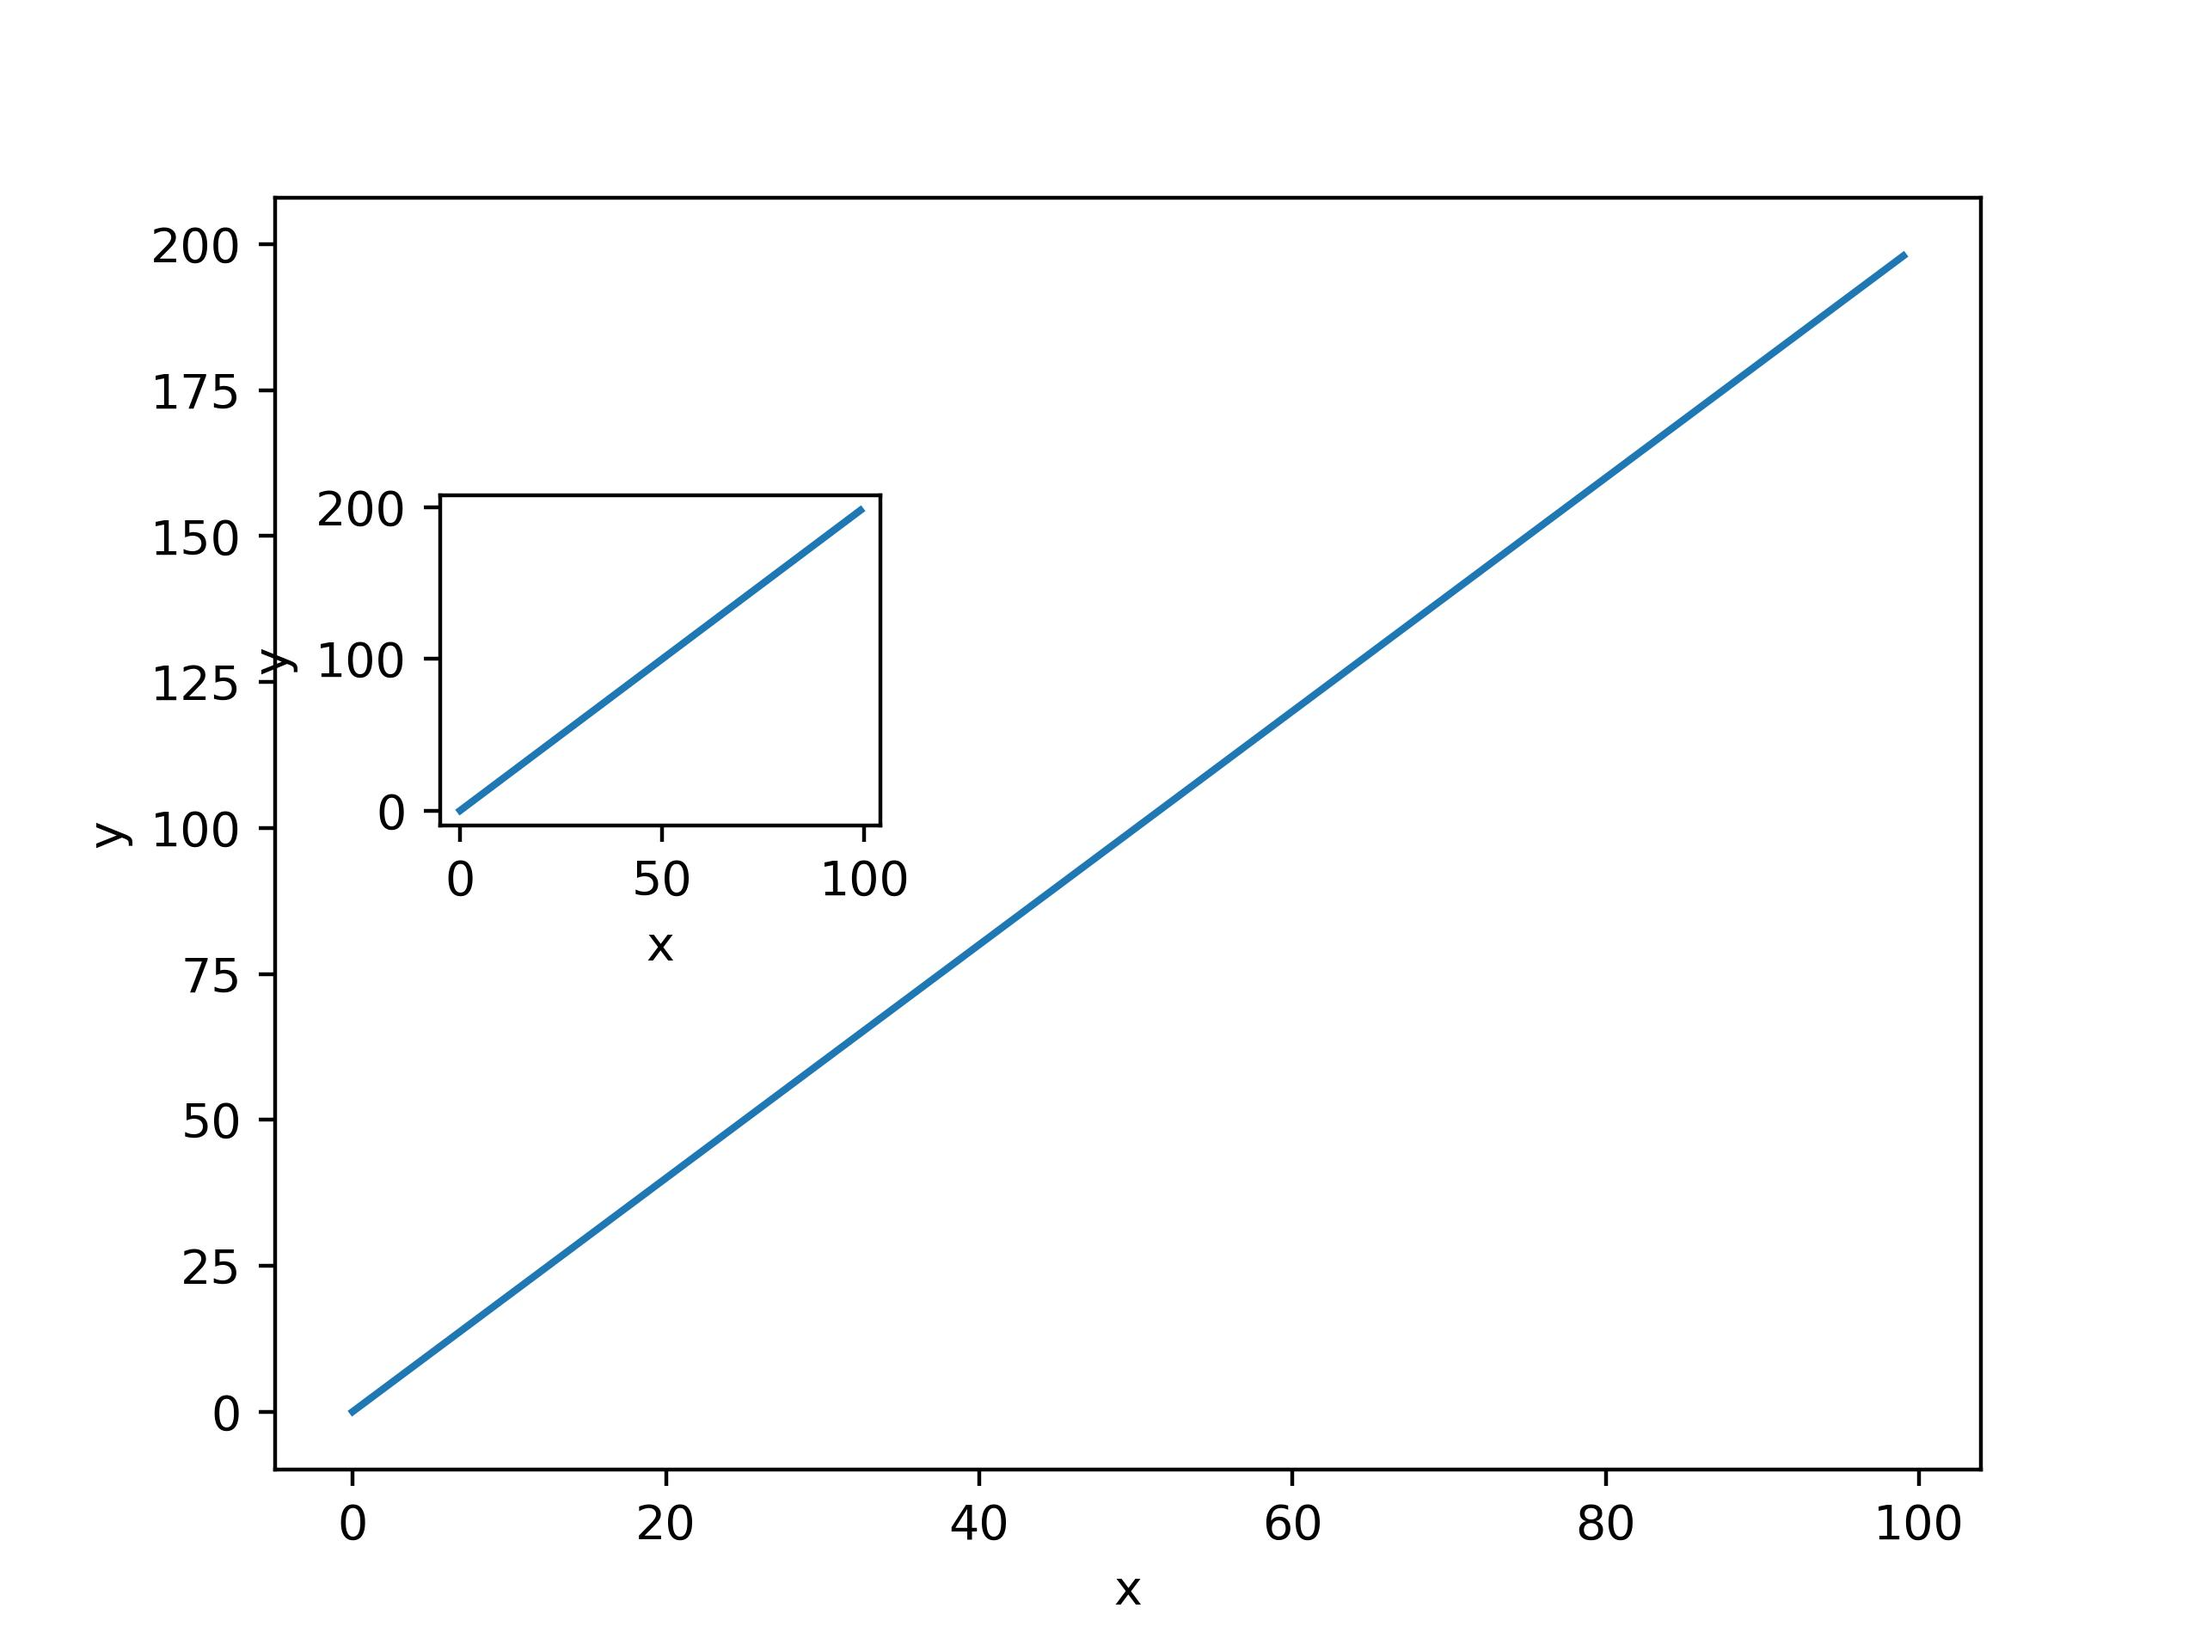
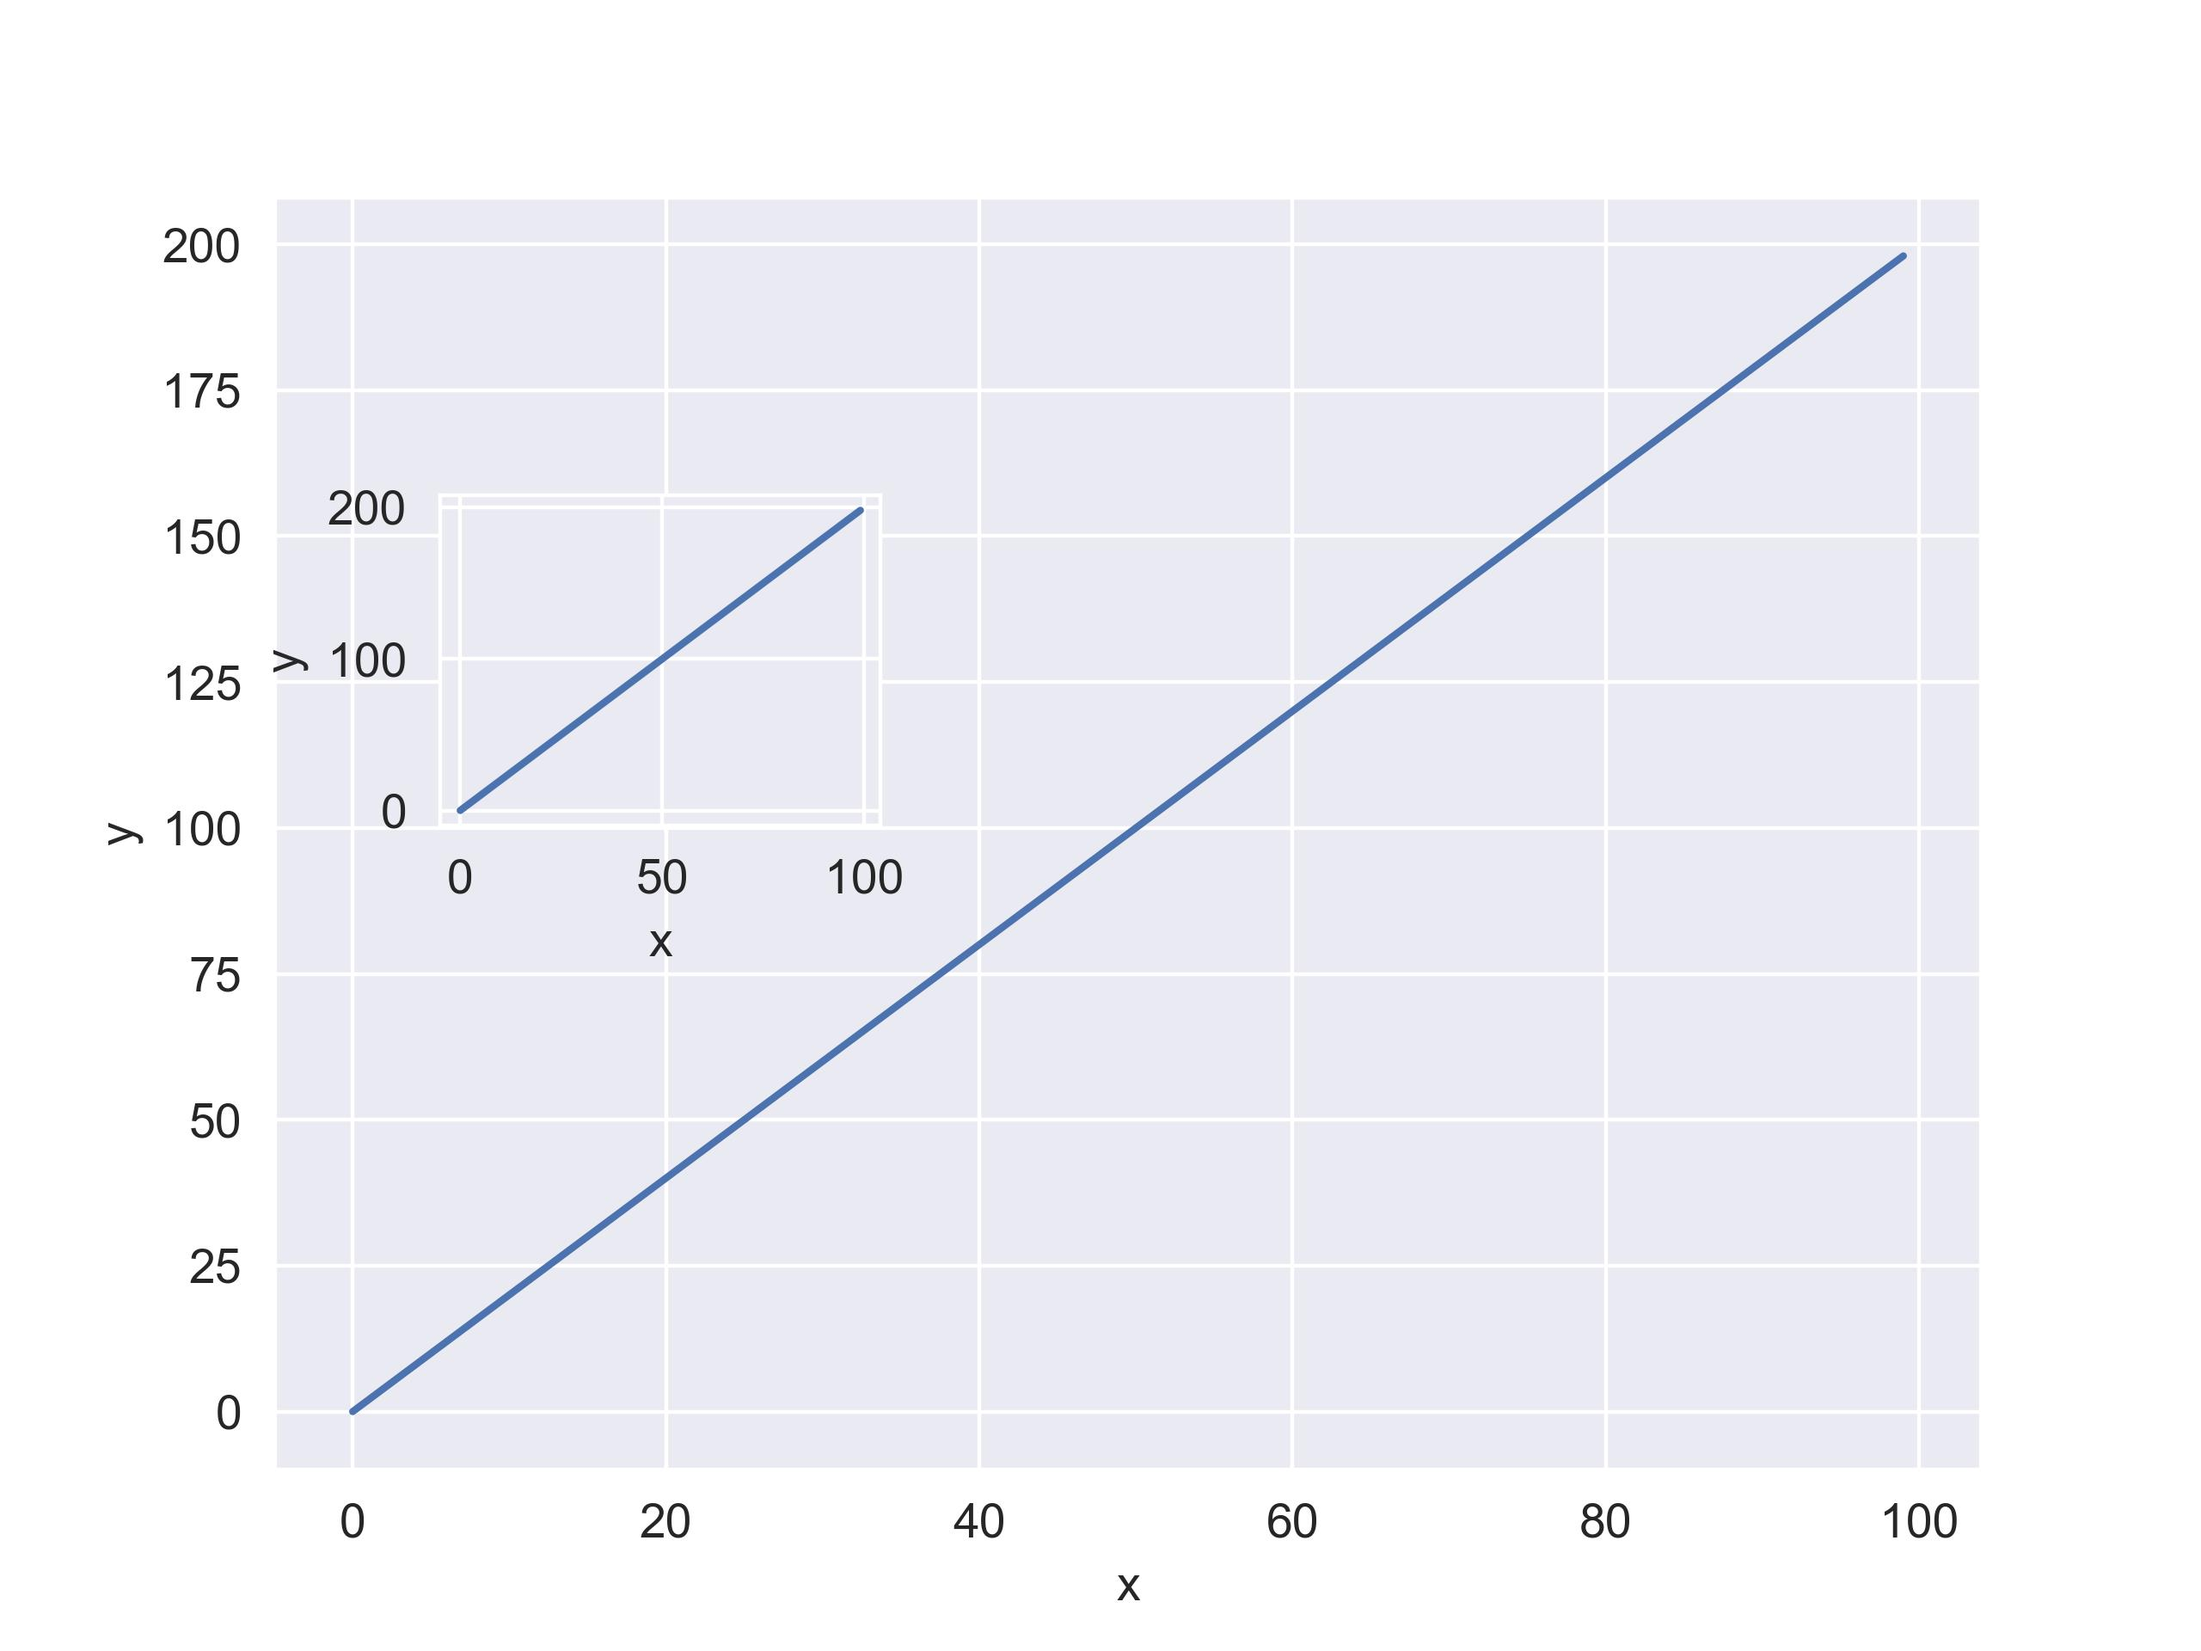
seaborn intro

diff --git a/Seaborn/seaborn_intro.py b/Seaborn/seaborn_intro.py
@@ -1,0 +1,17 @@
+import seaborn as sns
+import matplotlib.pyplot as plt
+
+sns.set_style('darkgrid')
+sns.set_palette('deep')
+
+tips = sns.load_dataset('tips')
+tips.head()
+sns.displot(tips['total_bill'], kde=True, bins=30) # Distribution or histogram
+plt.show()
+sns.jointplot(x='total_bill', y='tip', data=tips)
+plt.show()
+sns.pairplot(tips, hue='sex', palette='coolwarm')
+plt.show()
+sns.rugplot(tips['total_bill'])
+plt.show()
+

diff --git a/Seaborn/categorical_plots.py b/Seaborn/categorical_plots.py
@@ -1,0 +1,5 @@
+import seaborn as sns
+import matplotlib.pyplot as plt
+
+tips = sns.load_dataset('tips')
+tips.head()
